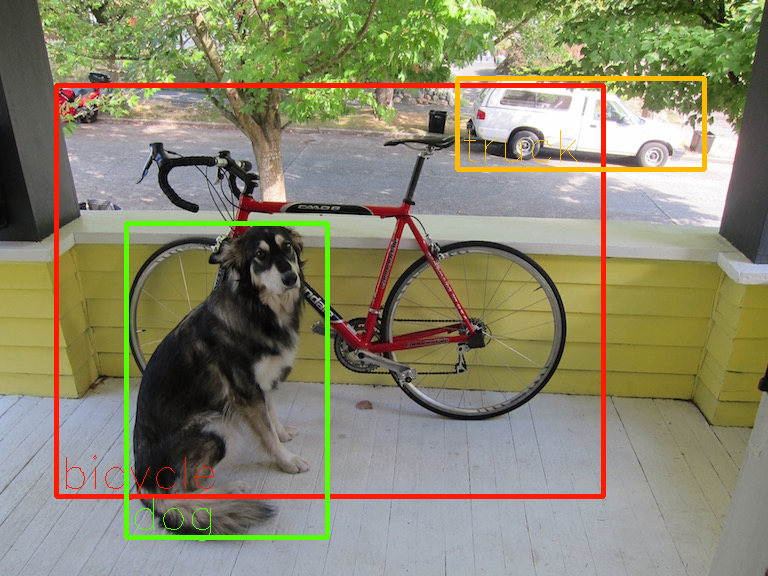
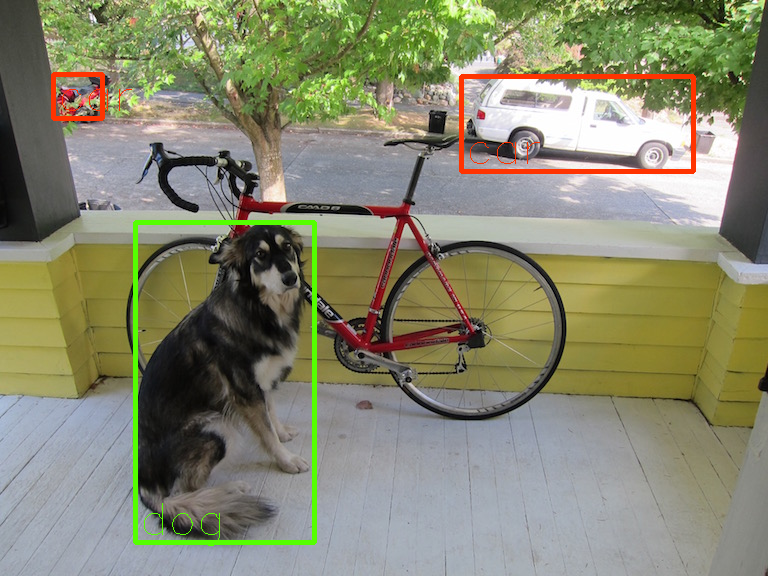
Update letterbox api

Changed region(s): [[0.0625, 0.125, 0.9375, 0.9688]]

diff --git a/util/detector_utils.py b/util/detector_utils.py
@@ -2,6 +2,7 @@ import os
 import sys
 import numpy as np
 import cv2
+import ailia
 
 
 def preprocessing_img(img):
@@ -27,26 +28,22 @@ def hsv_to_rgb(h, s, v):
     return (int(bgr[0]), int(bgr[1]), int(bgr[2]), 255)
 
 
-def letterbox_convert(frame, height, width):
+def letterbox_convert(frame, det_shape):
     """
     Adjust the size of the frame from the webcam to the ailia input shape.
 
     Parameters
     ----------
     frame: numpy array
-    height: int
-        ailia model input height
-    width: int
-        ailia model input width
+    det_shape: tuple
+        ailia model input (height,width)
 
     Returns
     -------
-    img: numpy array
-        Image with the propotions of height and width
-        adjusted by padding for ailia model input.
     resized_img: numpy array
         Resized `img` as well as adapt the scale
     """
+    height, width = det_shape[0], det_shape[1]
     f_height, f_width = frame.shape[0], frame.shape[1]
     scale = np.max((f_height / height, f_width / width))
 
@@ -64,7 +61,33 @@ def letterbox_convert(frame, height, width):
     return resized_img
 
 
-def plot_results(detector, img, category, segm_masks=None, logging=True, det_shape = None):
+def reverse_letterbox(detections, img, det_shape):
+    h, w = img.shape[0], img.shape[1]
+
+    pad_x = pad_y = 0
+    if det_shape != None:
+        scale = np.max((h / det_shape[0], w / det_shape[1]))
+        start = (det_shape[0:2] - np.array(img.shape[0:2]) / scale) // 2
+        pad_x = start[1]*scale
+        pad_y = start[0]*scale
+    
+    new_detections = []
+    for detection in detections:
+        print(detection)
+        r = ailia.DetectorObject(
+            category=detection.category,
+            prob=detection.prob,
+            x=(detection.x*(w+pad_x*2) - pad_x)/w,
+            y=(detection.y*(h+pad_y*2) - pad_y)/h,
+            w=(detection.w*(w+pad_x*2))/w,
+            h=(detection.h*(h+pad_y*2))/h,
+        )
+        new_detections.append(r)
+    
+    return new_detections
+
+
+def plot_results(detector, img, category, segm_masks=None, logging=True):
     """
     :param detector: ailia.Detector, or list of ailia.DetectorObject
     :param img: ndarray data of image
@@ -74,13 +97,6 @@ def plot_results(detector, img, category, segm_masks=None, logging=True, det_sha
     :return:
     """
     h, w = img.shape[0], img.shape[1]
-
-    pad_x = pad_y = 0
-    if det_shape != None:
-        scale = np.max((h / det_shape[0], w / det_shape[1]))
-        start = (det_shape[0:2] - np.array(img.shape[0:2]) / scale) // 2
-        pad_x = start[1]*scale
-        pad_y = start[0]*scale
 
     count = detector.get_object_count() if hasattr(detector, 'get_object_count') else len(detector)
     if logging:
@@ -117,8 +133,8 @@ def plot_results(detector, img, category, segm_masks=None, logging=True, det_sha
     # draw bounding box
     for idx in range(count):
         obj = detector.get_object(idx) if hasattr(detector, 'get_object') else detector[idx]
-        top_left = (int((w + pad_x*2) * obj.x - pad_x), int((h + pad_y*2) * obj.y - pad_y))
-        bottom_right = (int((w + pad_x*2) * (obj.x + obj.w) - pad_x), int((h + pad_y*2) * (obj.y + obj.h) - pad_y))
+        top_left = (int(w * obj.x), int(h * obj.y))
+        bottom_right = (int(w * (obj.x + obj.w)), int(h * (obj.y + obj.h)))
 
         color = colors[idx]
         cv2.rectangle(img, top_left, bottom_right, color, 4)
@@ -126,7 +142,7 @@ def plot_results(detector, img, category, segm_masks=None, logging=True, det_sha
     # draw label
     for idx in range(count):
         obj = detector.get_object(idx) if hasattr(detector, 'get_object') else detector[idx]
-        text_position = (int((w + pad_x*2) * obj.x - pad_x) + 4, int((h + pad_y*2) * (obj.y + obj.h) - pad_y - 8))
+        text_position = (int(w * obj.x) + 4, int(h * (obj.y + obj.h) - 8))
         fontScale = w / 512.0
 
         color = colors[idx]

diff --git a/object_detection/yolov4-tiny/yolov4-tiny.py b/object_detection/yolov4-tiny/yolov4-tiny.py
@@ -10,7 +10,7 @@ import ailia
 sys.path.append('../../util')
 from utils import get_base_parser, update_parser  # noqa: E402
 from model_utils import check_and_download_models  # noqa: E402
-from detector_utils import plot_results, load_image, letterbox_convert  # noqa: E402
+from detector_utils import plot_results, load_image, letterbox_convert, reverse_letterbox  # noqa: E402
 import webcamera_utils  # noqa: E402
 
 from yolov4_tiny_utils import post_processing  # noqa: E402
@@ -61,17 +61,17 @@ parser.add_argument(
 )
 parser.add_argument(
     '-dw', '--detection_width', metavar='DETECTION_WIDTH',
-    default=416, choices=DETECTION_SIZE_LISTS, type=int,
+    default=DETECTION_SIZE_LISTS[0], choices=DETECTION_SIZE_LISTS, type=int,
     help='detection size lists: ' + ' | '.join(map(str,DETECTION_SIZE_LISTS))
 )
 parser.add_argument(
     '-dh', '--detection_height', metavar='DETECTION_HEIGHT',
-    default=416, choices=DETECTION_SIZE_LISTS, type=int,
+    default=DETECTION_SIZE_LISTS[0], choices=DETECTION_SIZE_LISTS, type=int,
     help='detection size lists: ' + ' | '.join(map(str,DETECTION_SIZE_LISTS))
 )
 args = update_parser(parser)
 
-if args.detection_width != 416 or args.detection_height!=416:
+if args.detection_width != DETECTION_SIZE_LISTS[0] or args.detection_height!=DETECTION_SIZE_LISTS[0]:
     WEIGHT_PATH = 'yolov4-tiny_'+str(args.detection_width)+'_'+str(args.detection_height)+'.onnx'
     MODEL_PATH = 'yolov4-tiny_'+str(args.detection_width)+'_'+str(args.detection_height)+'.onnx.prototxt'
     IMAGE_HEIGHT = args.detection_height
@@ -91,7 +91,7 @@ def recognize_from_image(detector):
     print(f'input image shape: {org_img.shape}')
 
     org_img = cv2.cvtColor(org_img, cv2.COLOR_BGRA2BGR)
-    img = letterbox_convert(org_img, IMAGE_HEIGHT, IMAGE_WIDTH)
+    img = letterbox_convert(org_img, (IMAGE_HEIGHT, IMAGE_WIDTH))
 
     img = cv2.cvtColor(img, cv2.COLOR_BGR2RGB)
     img = np.transpose(img, [2, 0, 1])
@@ -110,9 +110,10 @@ def recognize_from_image(detector):
     else:
         output = detector.predict([img])
     detect_object = post_processing(img, args.threshold, args.iou, output)
+    detect_object = reverse_letterbox(detect_object[0], org_img, (IMAGE_HEIGHT,IMAGE_WIDTH))
 
     # plot result
-    res_img = plot_results(detect_object[0], org_img, COCO_CATEGORY, det_shape=(IMAGE_HEIGHT,IMAGE_WIDTH))
+    res_img = plot_results(detect_object, org_img, COCO_CATEGORY)
 
     # plot result
     cv2.imwrite(args.savepath, res_img)
@@ -135,7 +136,7 @@ def recognize_from_video(detector):
         if (cv2.waitKey(1) & 0xFF == ord('q')) or not ret:
             break
 
-        img = letterbox_convert(frame, IMAGE_HEIGHT, IMAGE_WIDTH)
+        img = letterbox_convert(frame, (IMAGE_HEIGHT, IMAGE_WIDTH))
 
         img = cv2.cvtColor(img, cv2.COLOR_BGR2RGB)
         img = np.transpose(img, [2, 0, 1])
@@ -146,7 +147,8 @@ def recognize_from_video(detector):
         detect_object = post_processing(
             img, args.threshold, args.iou, output
         )
-        res_img = plot_results(detect_object[0], frame, COCO_CATEGORY, det_shape=(IMAGE_HEIGHT,IMAGE_WIDTH))
+        detect_object = reverse_letterbox(detect_object[0], frame, (IMAGE_HEIGHT,IMAGE_WIDTH))
+        res_img = plot_results(detect_object, frame, COCO_CATEGORY)
 
         cv2.imshow('frame', res_img)
         # save results

diff --git a/object_detection/yolov5/yolov5.py b/object_detection/yolov5/yolov5.py
@@ -10,7 +10,7 @@ import ailia
 sys.path.append('../../util')
 from utils import get_base_parser, update_parser  # noqa: E402
 from model_utils import check_and_download_models  # noqa: E402
-from detector_utils import plot_results, load_image, letterbox_convert  # noqa: E402
+from detector_utils import plot_results, load_image, letterbox_convert, reverse_letterbox  # noqa: E402
 import webcamera_utils  # noqa: E402
 
 import yolov5_utils  # noqa: E402
@@ -70,17 +70,17 @@ parser.add_argument(
 )
 parser.add_argument(
     '-dw', '--detection_width', metavar='DETECTION_WIDTH',
-    default=640, choices=DETECTION_SIZE_LISTS, type=int,
+    default=DETECTION_SIZE_LISTS[0], choices=DETECTION_SIZE_LISTS, type=int,
     help='detection size lists: ' + ' | '.join(map(str,DETECTION_SIZE_LISTS))
 )
 parser.add_argument(
     '-dh', '--detection_height', metavar='DETECTION_HEIGHT',
-    default=640, choices=DETECTION_SIZE_LISTS, type=int,
+    default=DETECTION_SIZE_LISTS[0], choices=DETECTION_SIZE_LISTS, type=int,
     help='detection size lists: ' + ' | '.join(map(str,DETECTION_SIZE_LISTS))
 )
 args = update_parser(parser)
 
-if args.detection_width != 640 or args.detection_height != 640:
+if args.detection_width != DETECTION_SIZE_LISTS[0] or args.detection_height != DETECTION_SIZE_LISTS[0]:
     WEIGHT_PATH = args.arch+'_'+str(args.detection_width)+'_'+str(args.detection_height)+'.onnx'
     MODEL_PATH = args.arch+'_'+str(args.detection_width)+'_'+str(args.detection_height)+'.onnx.prototxt'
     IMAGE_HEIGHT = args.detection_height
@@ -100,7 +100,7 @@ def recognize_from_image():
     org_img = cv2.cvtColor(org_img, cv2.COLOR_BGRA2BGR)
     print(f'input image shape: {org_img.shape}')
 
-    img = letterbox_convert(org_img, IMAGE_HEIGHT, IMAGE_WIDTH)
+    img = letterbox_convert(org_img, (IMAGE_HEIGHT, IMAGE_WIDTH))
 
     img = cv2.cvtColor(img, cv2.COLOR_BGR2RGB)
     img = np.transpose(img, [2, 0, 1])
@@ -122,9 +122,10 @@ def recognize_from_image():
     else:
         output = detector.predict([img])
     detect_object = yolov5_utils.post_processing(img, args.threshold, args.iou, output)
+    detect_object = reverse_letterbox(detect_object[0], org_img, (IMAGE_HEIGHT,IMAGE_WIDTH))
 
     # plot result
-    res_img = plot_results(detect_object[0], org_img, COCO_CATEGORY, det_shape=(IMAGE_HEIGHT,IMAGE_WIDTH))
+    res_img = plot_results(detect_object, org_img, COCO_CATEGORY)
 
     # plot result
     cv2.imwrite(args.savepath, res_img)
@@ -151,7 +152,7 @@ def recognize_from_video():
         if (cv2.waitKey(1) & 0xFF == ord('q')) or not ret:
             break
         
-        img = letterbox_convert(frame, IMAGE_HEIGHT, IMAGE_WIDTH)
+        img = letterbox_convert(frame, (IMAGE_HEIGHT, IMAGE_WIDTH))
 
         img = cv2.cvtColor(img, cv2.COLOR_BGR2RGB)
         img = np.transpose(img, [2, 0, 1])
@@ -162,7 +163,9 @@ def recognize_from_video():
         detect_object = yolov5_utils.post_processing(
             img, args.threshold, args.iou, output
         )
-        res_img = plot_results(detect_object[0], frame, COCO_CATEGORY, det_shape=(IMAGE_HEIGHT,IMAGE_WIDTH))
+        detect_object = reverse_letterbox(detect_object[0], frame, (IMAGE_HEIGHT,IMAGE_WIDTH))
+
+        res_img = plot_results(detect_object, frame, COCO_CATEGORY)
 
         cv2.imshow('frame', res_img)
 

diff --git a/object_detection/yolov4/yolov4.py b/object_detection/yolov4/yolov4.py
@@ -10,7 +10,7 @@ import ailia
 sys.path.append('../../util')
 from utils import get_base_parser, update_parser  # noqa: E402
 from model_utils import check_and_download_models  # noqa: E402
-from detector_utils import plot_results, load_image, letterbox_convert  # noqa: E402
+from detector_utils import plot_results, load_image, letterbox_convert, reverse_letterbox  # noqa: E402
 import webcamera_utils  # noqa: E402
 
 import yolov4_utils  # noqa: E402
@@ -63,17 +63,17 @@ parser.add_argument(
 )
 parser.add_argument(
     '-dw', '--detection_width', metavar='DETECTION_WIDTH',
-    default=416, choices=DETECTION_SIZE_LISTS, type=int,
+    default=DETECTION_SIZE_LISTS[0], choices=DETECTION_SIZE_LISTS, type=int,
     help='detection size lists: ' + ' | '.join(map(str,DETECTION_SIZE_LISTS))
 )
 parser.add_argument(
     '-dh', '--detection_height', metavar='DETECTION_HEIGHT',
-    default=416, choices=DETECTION_SIZE_LISTS, type=int,
+    default=DETECTION_SIZE_LISTS[0], choices=DETECTION_SIZE_LISTS, type=int,
     help='detection size lists: ' + ' | '.join(map(str,DETECTION_SIZE_LISTS))
 )
 args = update_parser(parser)
 
-if args.detection_width != 416 or args.detection_height!=416:
+if args.detection_width != DETECTION_SIZE_LISTS[0] or args.detection_height!=DETECTION_SIZE_LISTS[0]:
     WEIGHT_PATH = 'yolov4_'+str(args.detection_width)+'_'+str(args.detection_height)+'.onnx'
     MODEL_PATH = 'yolov4_'+str(args.detection_width)+'_'+str(args.detection_height)+'.onnx.prototxt'
     IMAGE_HEIGHT = args.detection_height
@@ -93,7 +93,7 @@ def recognize_from_image():
     org_img = cv2.cvtColor(org_img, cv2.COLOR_BGRA2BGR)
     print(f'input image shape: {org_img.shape}')
 
-    img = letterbox_convert(org_img, IMAGE_HEIGHT, IMAGE_WIDTH)
+    img = letterbox_convert(org_img, (IMAGE_HEIGHT, IMAGE_WIDTH))
 
     img = cv2.cvtColor(img, cv2.COLOR_BGR2RGB)
     img = np.transpose(img, [2, 0, 1])
@@ -115,9 +115,10 @@ def recognize_from_image():
     else:
         output = detector.predict([img])
     detect_object = yolov4_utils.post_processing(img, args.threshold, args.iou, output)
+    detect_object = reverse_letterbox(detect_object[0], org_img, (IMAGE_HEIGHT,IMAGE_WIDTH))
 
     # plot result
-    res_img = plot_results(detect_object[0], org_img, COCO_CATEGORY, det_shape=(IMAGE_HEIGHT,IMAGE_WIDTH))
+    res_img = plot_results(detect_object, org_img, COCO_CATEGORY)
 
     # plot result
     cv2.imwrite(args.savepath, res_img)
@@ -144,7 +145,7 @@ def recognize_from_video():
         if (cv2.waitKey(1) & 0xFF == ord('q')) or not ret:
             break
 
-        img = letterbox_convert(frame, IMAGE_HEIGHT, IMAGE_WIDTH)
+        img = letterbox_convert(frame, (IMAGE_HEIGHT, IMAGE_WIDTH))
 
         img = cv2.cvtColor(img, cv2.COLOR_BGR2RGB)
         img = np.transpose(img, [2, 0, 1])
@@ -155,7 +156,8 @@ def recognize_from_video():
         detect_object = yolov4_utils.post_processing(
             img, args.threshold, args.iou, output
         )
-        res_img = plot_results(detect_object[0], frame, COCO_CATEGORY, det_shape=(IMAGE_HEIGHT,IMAGE_WIDTH))
+        detect_object = reverse_letterbox(detect_object[0], frame, (IMAGE_HEIGHT,IMAGE_WIDTH))
+        res_img = plot_results(detect_object, frame, COCO_CATEGORY)
 
         cv2.imshow('frame', res_img)
 
